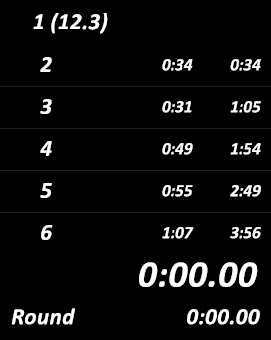
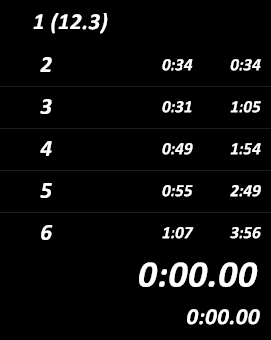
updated readme.md and last-spawn-times.md

Changed region(s): [[0.0295, 0.9118, 0.2952, 0.9706]]

diff --git a/docs/optional-scripts/last-spawn-times.md b/docs/optional-scripts/last-spawn-times.md
@@ -1,8 +1,6 @@
 # ⏱ Last Spawn Display (`Bo1-Bo2_SpawnTimes.asl`)
 
-A secondary, completely passive LiveSplit Auto Splitter (ASL) script designed to display the expected **spawn time** for rounds 1 through 20. 
-
-Unlike the main autosplitter, this script **does not interact with splits or timer states**. It simply reads the current in-game round memory address and dynamically updates a custom layout text line.
+A secondary, standalone LiveSplit Auto Splitter (ASL) script that dynamically displays the expected **last zombie spawn time** for the current round (Rounds 1 to 20) at the very top of your LiveSplit layout[cite: 5].
 
 <p align="center">
   <img src="../../assets/images/Bo1-Bo2_SpawnTimes.png" alt="Bo1-Bo2 Spawn Times Preview" width="300" style="border-radius: 8px;">
@@ -12,34 +10,27 @@ Unlike the main autosplitter, this script **does not interact with splits or tim
 
 ## 📥 Download
 
-* **Script File:** [Bo1-Bo2_SpawnTimes.asl](https://github.com/ZegosofT/Bo1-Bo2-Autosplitter/releases/download/v0.9.0/Bo1-Bo2_SpawnTimes.asl)
+* **Script File:** [Bo1-Bo2_SpawnTimes.asl](https://github.com/ZegosofT/Bo1-Bo2-Autosplitter/releases/download/v0.9.0/Bo1-Bo2_SpawnTimes.asl)[cite: 3]
 
 ---
 
-## ✨ Features
+## ✨ Features & How It Works
 
-- **Automated Round Tracking:** Reads the active round from *Black Ops 1* or *Black Ops 2* (Plutonium, Steam, BGamer).
-- **Spawn Time Mapping:** Displays the formatted spawn delay for the current round (e.g., `1 (10.5)` for Round 1 up to `20 (50.2)` for Round 20).
-- **Automatic Cleanup:** Automatically removes the text line from your layout once you pass Round 20.
-- **Fast Restart Friendly:** Restores and resets the text component cleanly to `1 (10.5)` whenever a map is restarted or reset.
+- **Zero-Setup Auto-Injection:** You do **not** need to manually add or configure any text component in LiveSplit[cite: 5]. The script creates and inserts its own text component at the **very top** of your layout automatically[cite: 5].
+- **Split Index Tracking:** Uses your current LiveSplit split index ($X = \text{CurrentSplitIndex} + 1$) to determine the active round[cite: 5].
+- **Formatted Display `X (y)`:** Displays the current round $X$ alongside its calculated spawn time $y$ (e.g., `1 (10.5)` for Round 1 in Solo, `1 (12.3)` in 2P Coop)[cite: 5].
+- **Auto Solo / Coop Detection:** Reads your selected LiveSplit comparison, category, or game name to automatically switch between Solo and 2-Player Coop spawn tables (detects `"Coop"`)[cite: 5].
+- **Automatic Cleanup:** Automatically deletes the text component from your layout once you pass Round 20 ($X > 20$) and recreates it cleanly at Round 1 upon resetting[cite: 5].
 
 ---
 
-## 🛠 Installation & Setup
+## 🛠 Installation
 
-1. **Download the script:** Get [`Bo1-Bo2_SpawnTimes.asl`](https://github.com/ZegosofT/Bo1-Bo2-Autosplitter/releases/download/v0.9.0/Bo1-Bo2_SpawnTimes.asl) from the official release.
-2. **Add a Text Component in LiveSplit:**
-   - Right-click LiveSplit $\rightarrow$ **Edit Layout...**
-   - Click **`+`** $\rightarrow$ **Text** $\rightarrow$ **Text**.
-   - Open its **Settings** and set **Left Text** to exactly:
-     ```text
-     last spawn
-     ```
-   - Leave **Right Text** blank (the script will fill this dynamically). Click **OK**.
-3. **Attach the Script:**
-   - Click **`+`** $\rightarrow$ **Control** $\rightarrow$ **Scriptable Auto Splitter** (add a second instance if you already have the main autosplitter loaded).
-   - Double-click it, click **Browse**, and select `Bo1-Bo2_SpawnTimes.asl`.
-   - *(Optional)* Uncheck **Reset** in the script settings if you want your main autosplitter to handle resets exclusively.
+1. Download [`Bo1-Bo2_SpawnTimes.asl`](https://github.com/ZegosofT/Bo1-Bo2-Autosplitter/releases/download/v0.9.0/Bo1-Bo2_SpawnTimes.asl)[cite: 3].
+2. In LiveSplit, right-click $\rightarrow$ **Edit Layout...**[cite: 3]
+3. Click **`+`** $\rightarrow$ **Control** $\rightarrow$ **Scriptable Auto Splitter** (add a second instance alongside your main autosplitter)[cite: 3].
+4. Double-click it, click **Browse**, and select `Bo1-Bo2_SpawnTimes.asl`[cite: 3].
+5. Click **OK**. The spawn time text line will appear at the top of your layout automatically![cite: 5]
 
 ---
 

diff --git a/README.md b/README.md
@@ -66,7 +66,7 @@ Since the auto splitter reads game memory locally, it only runs on the **host's*
 
 We provide standalone ASL scripts to enhance your LiveSplit display without interfering with main splits[cite: 5]:
 
-* **[⏱ Spawn Times Display (`Bo1-Bo2_SpawnTimes.asl`)](./docs/optional-scripts/last-spawn-times.md)**: Automatically injects a dynamic text component at the top of your layout showing expected zombie spawn times `X (y)` for rounds 1 to 20 based on your current split index and game mode (Solo / Coop)[cite: 5].
+* **[⏱ Spawn Times Display (`Bo1-Bo2_SpawnTimes.asl`)](./docs/optional-scripts/last-spawn-times.md)**: Zero-setup script that automatically injects a text component at the top of your layout showing expected zombie spawn times `X (y)` for rounds 1 to 20 based on your current split index and game mode (Solo / Coop)[cite: 5].
 
 ---
 
